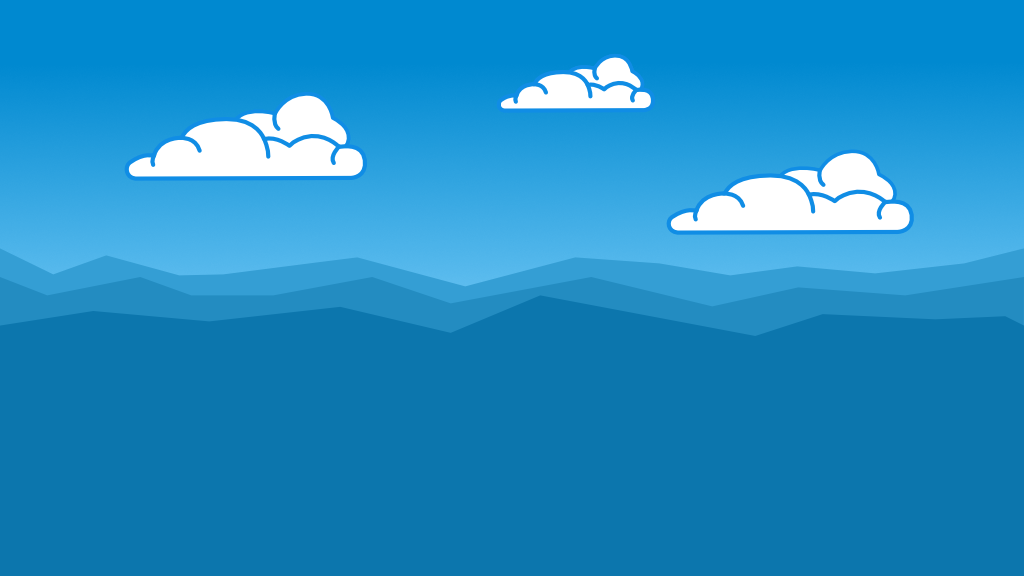
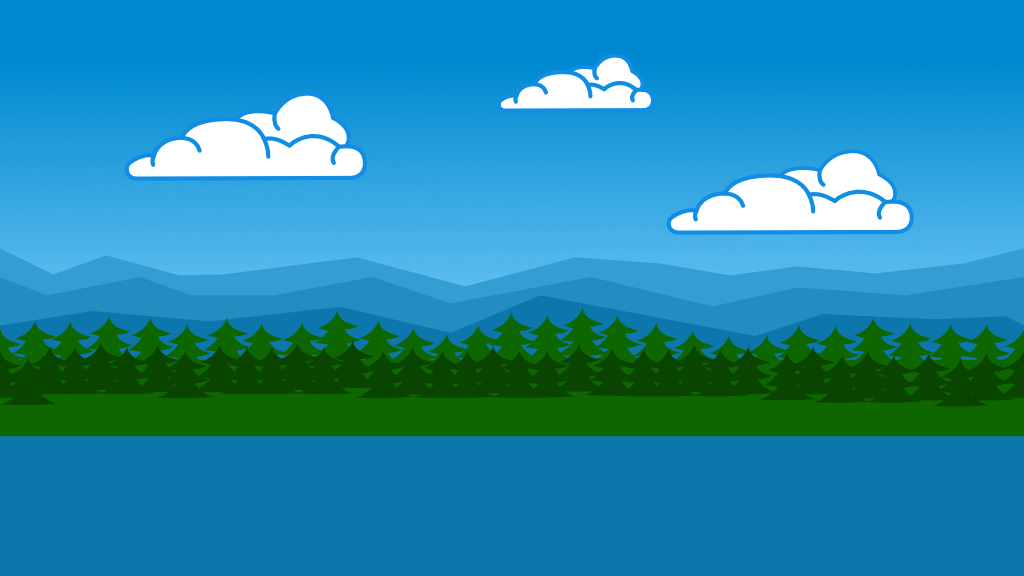
Added art, updated text, tweaked spanwer

Changed region(s): [[0.0, 0.5312, 1.0, 0.7812]]

diff --git a/src/prefabs/ObstacleSpawner.js b/src/prefabs/ObstacleSpawner.js
@@ -1,15 +1,24 @@
-class ObstacleSpawner{
+class ObstacleSpawner extends Phaser.GameObjects.Group{
     constructor(scene, delayMin, delayMax, minX, maxX, minY, maxY, logBounce) {
-        console.log("spawner made")
+        let groupConfig = {
+            runChildUpdate: true,
+            maxSize: 5
+        }
+        
+        super(scene, null, groupConfig);
+        console.log(this.runChildUpdate);
+        // bounce on ground
+        scene.physics.add.collider(this, platforms);
+        // collide with the player
+        scene.physics.add.overlap(player, this, this.playerHit, null, scene);
         scene.timer = scene.time.addEvent({
             delay: Phaser.Math.Between(delayMin, delayMax), 
             callback: () => {
-                console.log("spawning");
-                scene.log = new Log(scene, gameWidth, centerY, Phaser.Math.Between(minX, maxX), Phaser.Math.Between(minY, maxY), logBounce);
-                // bounce on ground
-                scene.physics.add.collider(scene.log, platforms);
-                // collide with the player
-                scene.physics.add.overlap(player, scene.log, this.playerHit, null, scene);
+                // scene.log = new Log(scene, this, gameWidth, centerY, Phaser.Math.Between(minX, maxX), Phaser.Math.Between(minY, maxY), logBounce);
+                if(!this.isFull()){
+                    this.add(new Log(scene, this, gameWidth, centerY, Phaser.Math.Between(minX, maxX), Phaser.Math.Between(minY, maxY), logBounce));
+                }
+                console.log("Num logs: " + this.getLength());
             }, 
             callbackContext: scene,
             loop: true,
@@ -20,14 +29,14 @@ class ObstacleSpawner{
     }
 
     update() {
+        this.preUpdate();
         this.scene.test2.setText("timer: " + this.scene.timer.getProgress().toString().substr(0, 4))
     }
 
     playerHit(){
+        isGameOver = true;
         sceneClock.paused = true;
         player.body.setDragX(groundDrag);
-        isGameOver = true;
-        console.log('You lose');
-        this.time.delayedCall(3000, () => { this.scene.start('gameOverScene'); })
+        this.time.delayedCall(2000, () => { this.scene.start('gameOverScene') })
     }
 }

diff --git a/src/scenes/Play.js b/src/scenes/Play.js
@@ -53,8 +53,9 @@ class Play extends Phaser.Scene {
         this.timeScaleText = this.add.text(32, 96, 'TimeScale: 0');
     }
 
-    update(time) {
+    update() {
         this.spawner1.update();
+        // this.physics.world.collide(paddle, this.barrierGroup, this.paddleCollision, null, this);
         isGrounded = player.body.touching.down;
 
         if(!isGameOver){
@@ -62,8 +63,10 @@ class Play extends Phaser.Scene {
                 // ground movement
                 if(keyLeft.isDown) {
                     player.body.velocity.x -= playerRunAccel;
+                    player.flipX = true;
                 } else if(keyRight.isDown) {
                     player.body.velocity.x += playerRunAccel;
+                    player.flipX = false;
                 } else {
                     // Set drag when not inputting movement
                     player.body.setDragX(groundDrag);
@@ -74,8 +77,10 @@ class Play extends Phaser.Scene {
                 player.body.setDragX(airDrag);
                 if(keyLeft.isDown) {
                     player.body.velocity.x -= playerAirAccel;
+                    player.flipX = true;
                 } else if(keyRight.isDown) {
                     player.body.velocity.x += playerAirAccel;
+                    player.flipX = false;
                 }
             }
     
@@ -93,7 +98,7 @@ class Play extends Phaser.Scene {
                 isJumping = false;
             }
 
-            // Experimental time slow  
+            // Time slow  
             if(Phaser.Input.Keyboard.DownDuration(keySlowmo, slowmoTime)) {
                 if(this.physics.world.timeScale < slowedTimeScale){
                     this.physics.world.timeScale += 0.01; 
@@ -108,6 +113,10 @@ class Play extends Phaser.Scene {
                 }
             }
             this.timeScaleText.setText('TimeScale: ' + this.physics.world.timeScale);
+        }
+
+        if (Phaser.Input.Keyboard.JustDown(keyStart)) {
+            this.scene.start('gameOverScene');
         }
 
         // scroll background and ground

diff --git a/src/prefabs/Log.js b/src/prefabs/Log.js
@@ -1,5 +1,5 @@
 class Log extends Phaser.Physics.Arcade.Sprite {
-    constructor(scene, spawnX, spawnY, velocityX, velocityY, logBounce) {
+    constructor(scene, group, spawnX, spawnY, velocityX, velocityY, logBounce) {
         // call Phaser Physics Sprite constructor
         super(scene, spawnX, spawnY, '').setOrigin(0,0).setInteractive(); 
         // set up physics sprite
@@ -30,7 +30,7 @@ class Log extends Phaser.Physics.Arcade.Sprite {
             // } else {
             //     this.dragVelocityY = Phaser.Math.Clamp(pointer.y - this.initPointerY, -maxDragSpeed, -minDragSpeed)
             // }
-            
+
             gameObject.body.allowGravity = false;
             
             // gameObject.body.velocity.x = this.dragVelocityX;
@@ -40,20 +40,26 @@ class Log extends Phaser.Physics.Arcade.Sprite {
             gameObject.body.velocity.y = pointer.y - this.initPointerY;
 
             this.gravityReturn = scene.time.delayedCall(500, () => {
-                console.log("Return: " + gameObject.body.gravity.y);
                 gameObject.body.allowGravity = true;
             }, null, scene);
         });
+
+        // Despawn after time to prevent player tossing logs up forever
+        this.despawnTime = scene.time.delayedCall(logDespawnTime, () => {
+            this.group.remove(this, true, true);
+        }, null, scene);
+
+        this.group = group;
     }
 
     update() {
         if(this.x < 0) {
-            console.log("log destroyed");
-            this.destroy();
+            this.group.remove(this, true, true);
         }
-        if(this.x > gameWidth) {
-            console.log("reflected: " + this.velocity.x);
-            this.velocity.x = -this.velocity.x;
+        if(this.x > gameWidth + 50) {
+            this.body.velocity.x = -this.body.velocity.x;
+            this.x = gameWidth;
+            this.y = centerY;
         }
     }
 }

diff --git a/src/main.js b/src/main.js
@@ -27,7 +27,7 @@ let config = {
 // define game
 let game = new Phaser.Game(config);
 
-// define globals
+// Define global variables
 var gameWidth = game.config.width;
 var gameHeight = game.config.height;
 var centerX = game.config.width/2;
@@ -38,23 +38,27 @@ var isGameOver = false;
 var sceneClock;
 var highScore = 0;
 var currTime;
+var logDespawnTime = 10000;
 
-// game objects
+// Game objects
 var background;
 var ground;
 var platforms;
 var player = null;
 
-// player settings
+// player statuses
 var isJumping = false;
 var isGrounded = false;
 var hasJumped = false;
+var isHit = false;
 
+// Player run movemment
 var maxVelocityX = 400;
 var maxVelocityY = 1000;
 var playerRunAccel = 100;
 var groundDrag = 500;
 
+// Player jump movemment
 var holdJumpTime = 180;
 var playerJumpSpeed = -35;
 var playerInitSpeed = -300;
@@ -62,11 +66,14 @@ var playerInitSpeed = -300;
 var playerAirAccel = 15;
 var airDrag = 100;
 
-var normTimeScale = 1;
-var slowedTimeScale = 2;
-var slowmoTime = 3000;
+// Player slowmo
+var normTimeScale = 0.75;
+var slowedTimeScale = 1.25;
+var slowmoTime = 5000;
 
+// Player pyschic throw
 var minDragSpeed = 300;
 var maxDragSpeed = 500;
 
+// Game controls
 var keyLeft, keyRight, keyJump, keySlowmo, keyStart;

diff --git a/src/scenes/Menu.js b/src/scenes/Menu.js
@@ -26,10 +26,12 @@ class Menu extends Phaser.Scene {
             fixedWidth: 0
         }
         // add menu screen text
-        this.add.text(centerX, centerY - textSpacer, 'Endless Runner', menuConfig).setOrigin(0.5);
+        this.add.text(centerX, centerY - 3*textSpacer, 'Psychic Trials', menuConfig).setOrigin(0.5);
         menuConfig.fontSize = '30px';
-        this.add.text(centerX, centerY + textSpacer, 'A move left D move right W jump', menuConfig).setOrigin(0.5);
-        this.add.text(centerX, centerY + 2*textSpacer, 'Press enter to start', menuConfig).setOrigin(0.5);
+        this.add.text(centerX, centerY - textSpacer, 'A move left   D move right    W jump', menuConfig).setOrigin(0.5);
+        this.add.text(centerX, centerY, 'SHIFT time slow', menuConfig).setOrigin(0.5);
+        this.add.text(centerX, centerY + textSpacer, 'Click and drag obstacles to use pyschic throw', menuConfig).setOrigin(0.5);
+        this.add.text(centerX, centerY + 2*textSpacer, 'Press ENTER here to start or return to menu elsewhere', menuConfig).setOrigin(0.5);
         this.add.text(centerX, centerY + 3*textSpacer, 'High score: ' + highScore, menuConfig).setOrigin(0.5);
     }
 

diff --git a/src/scenes/Load.js b/src/scenes/Load.js
@@ -5,7 +5,7 @@ class Load extends Phaser.Scene {
 
     preload() {
         // load assets
-        this.load.image('player', './assets/SimplePlayer.png');
+        this.load.image('player', './assets/chara1.png');
         this.load.image('ground', './assets/ground.png');
         this.load.image('invisibleGround', './assets/invisibleGround.png');
         this.load.image('background', './assets/background.png');
